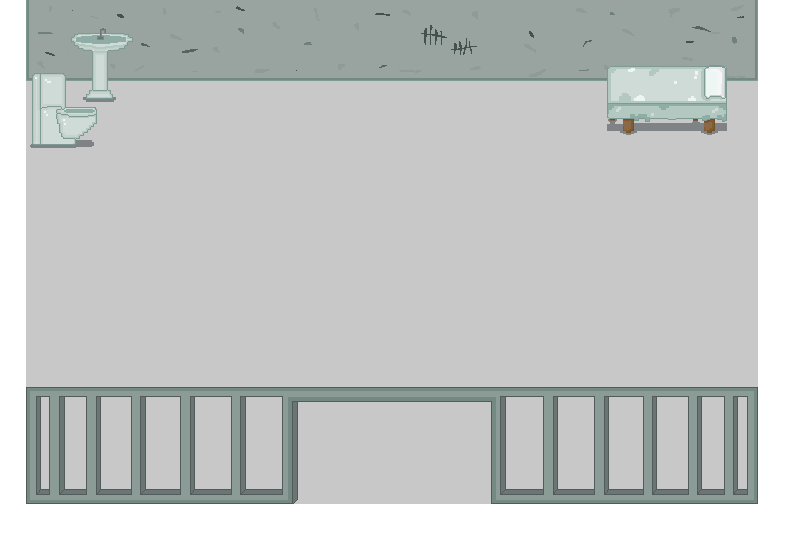
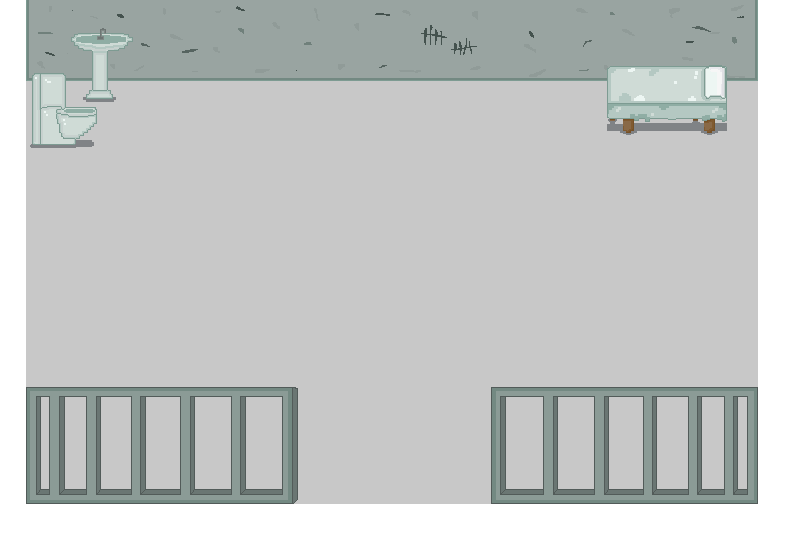
Changed Text Placing and Edited ROoms
I changed the text on the menu so it doesn't directly touch the edge of the screen and is more centeral. I also removed the door placeholder in the first dungeon and overhead bar on the cell room.

Changed region(s): [[0.3438, 0.7151, 0.625, 0.7747]]

diff --git a/js/menu.js b/js/menu.js
@@ -5,7 +5,7 @@ var menuState = {
   title = game.add.text(500, 200, 'Subject 306', {font: '50px Orbitron', fill: '#93FE20'});
 
 // controls
-help = game.add.text(0, 450, '', {font:  "Special Elite", fontSize: "30px", fill: '#93FE20'});
+help = game.add.text(100, 450, '', {font:  "Special Elite", fontSize: "30px", fill: '#93FE20'});
   helpText = 'W A S D keys to move \n';
   helpText += 'enter to select \n';
   helpText += 'p to pick up';
